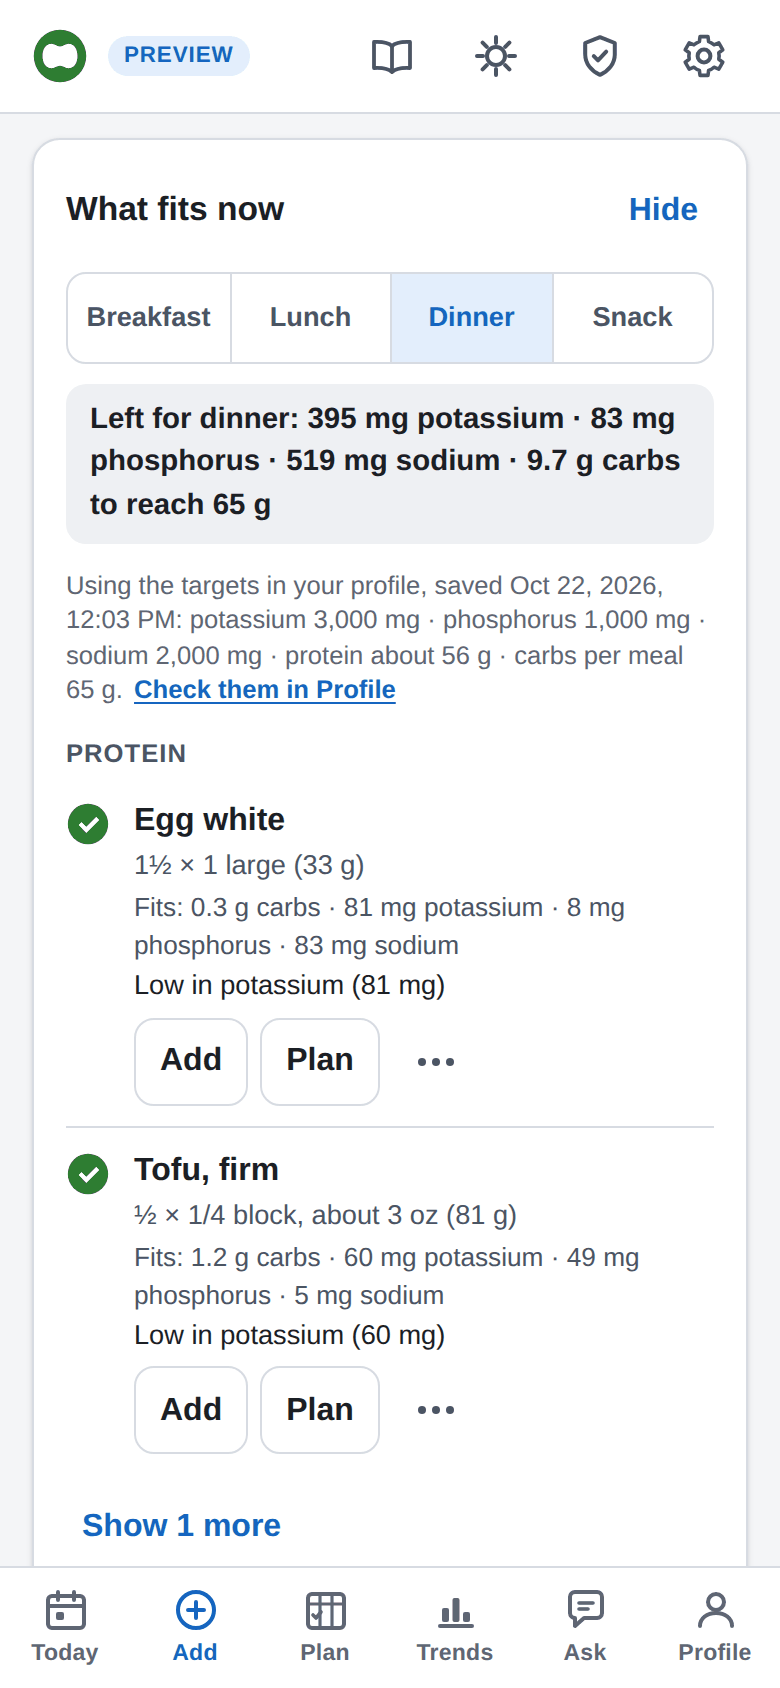
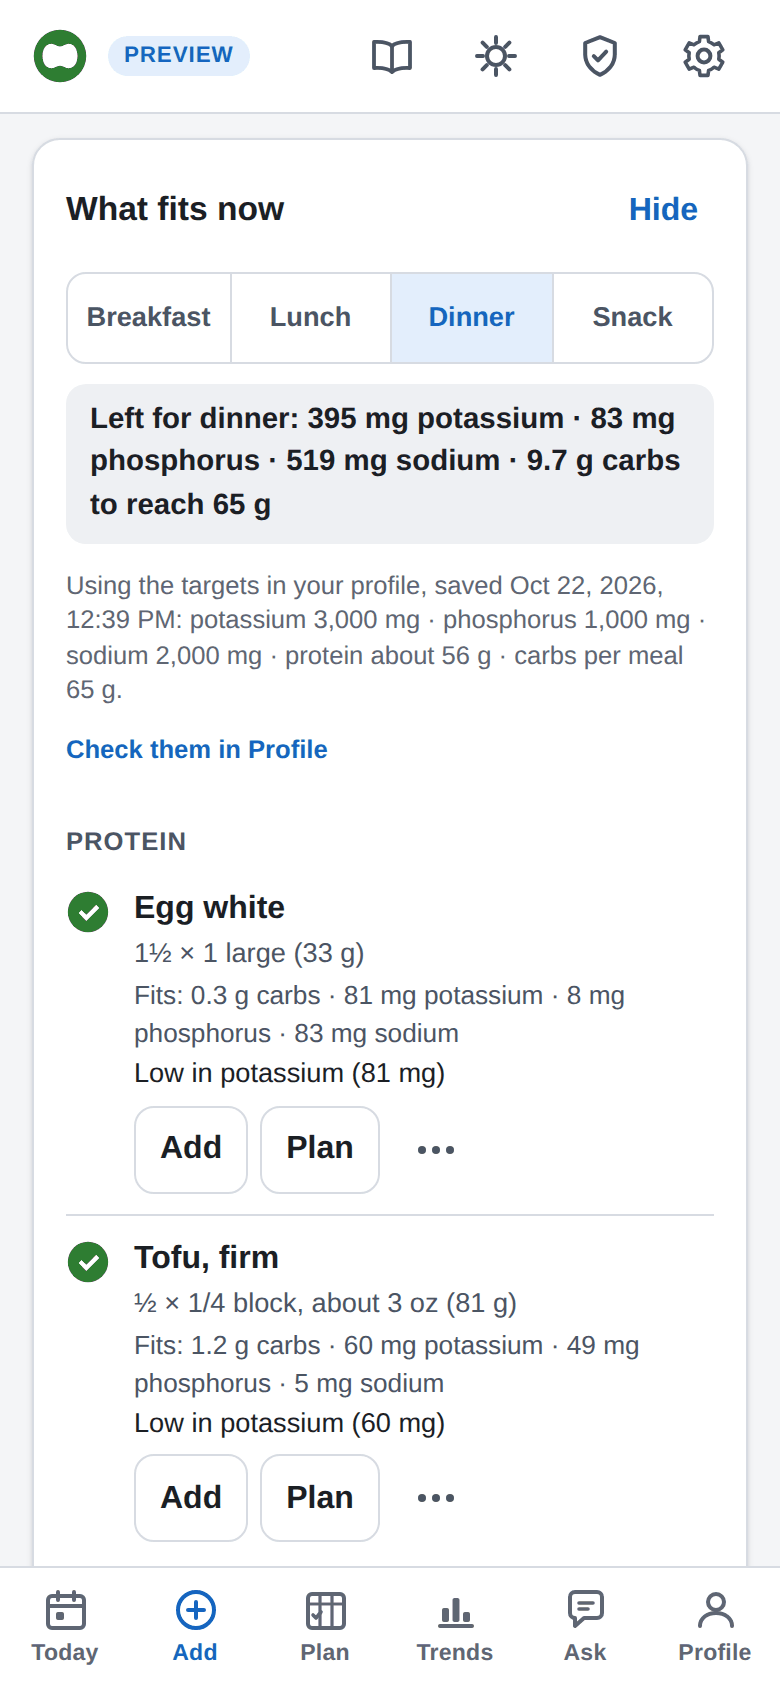
WIP(visual-qa): link buttons after a sentence take their own 44 px line; README screenshots again
Claude-Session: https://claude.ai/code/session_01GAjMcLnXyn3asCMuzVpjQG

diff --git a/app/static/js/views/body.js b/app/static/js/views/body.js
@@ -156,7 +156,7 @@
     if (weights.length) todayBody.append(h('h3', { class: 'body-sub-h' }, 'Weight'), h('ul', { class: 'body-list' }, weights.map(weightItem)));
     if (readings.length) todayBody.append(h('h3', { class: 'body-sub-h' }, 'Blood pressure'), h('ul', { class: 'body-list' }, readings.map(readingItem)));
     if (summary && !alarmSet && !goalSet) {
-      const settings = h('button', { class: 'link-btn inline', type: 'button', id: 'body-open-settings' }, 'Settings');
+      const settings = h('button', { class: 'link-btn', type: 'button', id: 'body-open-settings' }, 'Settings');
       settings.addEventListener('click', () => router.show('settings'));
       todayBody.append(h('p', { class: 'body-hint-line' }, 'To see how a weight or a reading compares with the numbers your care team gave you, enter them in ', settings, '.'));
     }

diff --git a/app/static/css/touch.css b/app/static/css/touch.css
@@ -14,6 +14,8 @@
   .learn-more { display: inline-block; box-sizing: border-box; min-height: var(--tap); padding: 12px 0; }
   /* After a warning or a flag the link takes its own line: inline, its 44 px box would push the lines of the text above it apart. */
   .alert .learn-more, .warning .learn-more, .body-flag .learn-more, .sym-flag .learn-more { display: block; width: fit-content; margin-top: 0; }
+  /* A link button that follows a sentence takes its own line, a full 44 px target: beside the words its box would push their lines apart. */
+  .profile-choose-note .link-btn, .g-targets .link-btn { display: flex; margin-left: -8px; }
   .details-card > summary, .inline-details > summary { min-height: var(--tap); display: flex; align-items: center; padding: 4px 0; }
   .check input { margin-top: 12px; }
   .check .check-text { padding-top: 11px; }

diff --git a/app/static/js/views/guidance.js b/app/static/js/views/guidance.js
@@ -204,7 +204,7 @@
     }
     const saved = savedText(targets.profile_updated_at);
     const lead = saved ? `Using the targets in your profile, saved ${saved}` : 'Using the targets in your profile';
-    const open = linkBtn('Check them in Profile', () => { if (beforeLeave) beforeLeave(); router.show('profile'); }, { class: 'link-btn inline' }); // in the sentence, so not a 44 px box
+    const open = linkBtn('Check them in Profile', () => { if (beforeLeave) beforeLeave(); router.show('profile'); });
     return h('p', { class: 'hint g-targets tabular' }, `${lead}${parts.length ? `: ${parts.join(' · ')}.` : '.'} `, open);
   }
   function timeText(d) { return d.toLocaleTimeString('en-US', { hour: 'numeric', minute: '2-digit' }); }

diff --git a/app/static/js/views/today.js b/app/static/js/views/today.js
@@ -73,7 +73,7 @@
     if (p && (p.ckd_stage_chosen === false || p.diabetes_chosen === false)) {
       alertsEl.append(h('p', { class: 'offline-note profile-choose-note', role: 'note' },
         'Your CKD stage and diabetes type are not chosen yet, so the app uses stage 3b and type 1 diabetes for now. ',
-        h('button', { class: 'link-btn inline', type: 'button', onclick: () => router.show('profile') }, 'Choose them in Profile')));
+        h('button', { class: 'link-btn', type: 'button', onclick: () => router.show('profile') }, 'Choose them in Profile')));
     }
     for (const a of day.alerts || []) {
       const lvl = a.level === 'over' ? 'over' : 'caution';

diff --git a/app/static/css/settings.css b/app/static/css/settings.css
@@ -128,5 +128,6 @@
 .import-title { margin: 0; font-size: 1rem; }
 .import-title:focus { outline: none; }
 .import-sub { font-weight: 600; }
-/* "How to make the shortcut" opens a sentence: inline, so a 44 px box does not push its lines apart (as in the Ask answers). */
-#set-push-recipe .learn-more { display: inline; min-height: 0; margin: 0; padding: 0; }
+/* "How to make the shortcut" opens a sentence. Inline, so it does not push the lines apart; its padding (which does not change the line
+   height) keeps the touch target at 44 px. */
+#set-push-recipe .learn-more { display: inline; min-height: 0; margin: 0; padding: 15px 0; }

diff --git a/tests/test_layout_ui.py b/tests/test_layout_ui.py
@@ -92,6 +92,7 @@ def test_a_handbook_link_stays_at_the_end_of_its_words_and_beside_its_arrow() ->
     assert "display: block" in own_line and "width: fit-content" in own_line
     inline = rule(SETTINGS_CSS, "#set-push-recipe .learn-more")  # "How to make the shortcut — the handbook has the steps ..."
     assert "display: inline" in inline and "min-height: 0" in inline
+    assert re.search(r"padding: 1[5-9]px 0", inline), "the padding (not the box) keeps the touch target at 44 px"
     # the arrow is joined to the last word by a no-break space
     assert r'content: "\00a0\2197"' in BASE and r'content: " \2197"' not in BASE
 
@@ -141,13 +142,13 @@ def test_a_message_that_is_its_own_card_keeps_the_cards_padding() -> None:
     assert TODAY_CSS.index(".card.empty-state") > TODAY_CSS.index(".empty-state {")
 
 
-def test_a_link_inside_a_sentence_is_an_inline_link_not_a_44_px_box() -> None:
-    """On a phone the 44 px box of a link button spread the lines of its sentence apart and parked the full stop on its own."""
-    assert "class: 'link-btn inline'" in TODAY_JS.split("profile-choose-note")[1].split("'Choose them in Profile'")[0]
-    assert "class: 'link-btn inline', type: 'button', id: 'body-open-settings'" in BODY_JS
-    assert "display: inline" in block(PROFILE_CSS, "@media (pointer: coarse), (max-width: 719.98px) {\n  .why > summary")
-    guidance = read("js", "views", "guidance.js")  # "Using the targets in your profile, saved ...: potassium 3,000 mg ... Check them in Profile"
-    assert re.search(r"linkBtn\('Check them in Profile'.*\{ class: 'link-btn inline' \}\)", guidance)
+def test_a_link_button_after_a_sentence_takes_its_own_line_at_a_full_44_px() -> None:
+    """On a phone the 44 px box of a link button beside words spread their lines apart. Two buttons end a lead-in sentence ("Using the
+    targets in your profile ... Check them in Profile", "Your CKD stage ... Choose them in Profile"): on a touch screen each is on its own line."""
+    phone = block(TOUCH, "@media (pointer: coarse), (max-width: 719.98px)")
+    declarations = rule(phone, ".profile-choose-note .link-btn, .g-targets .link-btn")
+    assert "display: flex" in declarations
+    assert "link-btn inline" not in TODAY_JS and "link-btn inline" not in read("js", "views", "guidance.js")
 
 
 def test_two_boxes_side_by_side_line_up_in_settings_too() -> None:

diff --git a/docs/dev/progress/visual-qa.md b/docs/dev/progress/visual-qa.md
@@ -34,7 +34,10 @@ layout bugs, report the rest. Screenshots stay outside the repository (the four 
 * "Import from a patient portal file (C-CDA .xml)": broke at the hyphen on a phone. A no-break span. `index.html`.
 * Settings: Export / Keep my data buttons and Sign out everywhere else touched the element above them. `settings.css`.
 * Trends with no targets: the message card had no padding (`.empty-state` came after `.card`). `today.css`.
-* Today with an empty log: two links inside a sentence were 44 px boxes that spread their lines apart; now inline. `today.js`, `body.js`.
+* Today with an empty log ("Choose them in Profile") and What fits now ("Check them in Profile"): a 44 px link button beside the words
+  spread their lines apart; on a phone it now has its own line, still 44 px. `touch.css`. (A try with inline links was refused by
+  the sandbox's 44 px tap check, so it was dropped.) "How to make the shortcut" in Settings is an inline link whose padding keeps
+  44 px. `settings.css`.
 * What fits now, "Meals that fit": a long chip name was cut at one line; two lines now. `guidance.css`.
 
 ## Left, with reasons
@@ -44,6 +47,10 @@ layout bugs, report the rest. Screenshots stay outside the repository (the four 
 * Profile, Daily targets (and About you): in two-column rows, boxes sit at different heights when one label wraps. The rows have
   hints under the box, so `align-items: end` does not fit; a CSS subgrid worked in a try but crowded two hint paragraphs together
   (screenshot in the scratchpad). Left as it is.
+* Today with an empty log: "...enter them in Settings." ends with a 44 px link button, so the full stop sits a little apart and
+  the lines are a little loose. Cosmetic; changing the sentence is not a layout fix.
+* `tools/e2e/import_walk.py` fails four checks (the preview text now ends "..., 0 weights, 0 blood pressure readings"). It fails the
+  same four on the commit before this work: a stale expectation from the weight and blood pressure part A.
 * Admin: an input that shows a long value (the Open Food Facts contact address) cuts it inside the box. Normal for an input.
 * Disabled primary buttons in dark mode (Use this plan, Keep my data in this browser) are dim by design.
 * A malformed C-CDA file makes Chromium draw an error document whose inline styles the CSP refuses: two console errors that

diff --git a/CHANGELOG.md b/CHANGELOG.md
@@ -12,7 +12,7 @@ the API. Security fixes are released as patch versions of the newest minor versi
 * **Tidier screens.** We looked at every screen, on a phone and on a computer, in light and dark, and fixed what looked wrong.
   The top bar shows the app's name whole or not at all, never cut to "K…", and it no longer runs past the edge of a narrow window.
   A handbook link under a warning no longer pushes the lines above it apart, and its arrow stays with the last word; the same goes
-  for the links inside a sentence ("Check them in Profile", "How to make the shortcut"). On the blood
+  for the links next to a sentence ("Check them in Profile", "How to make the shortcut"). On the blood
   pressure sheet the two number boxes line up. The **Include** box in Copy a day and the **Note** box in Lab results take the whole
   row on a phone, so their words are not cut off. In Lab results every row puts the date above the value. A long name under
   **Meals that fit** wraps to two lines. On Trends, the message about missing targets has its padding back. In Settings the buttons
